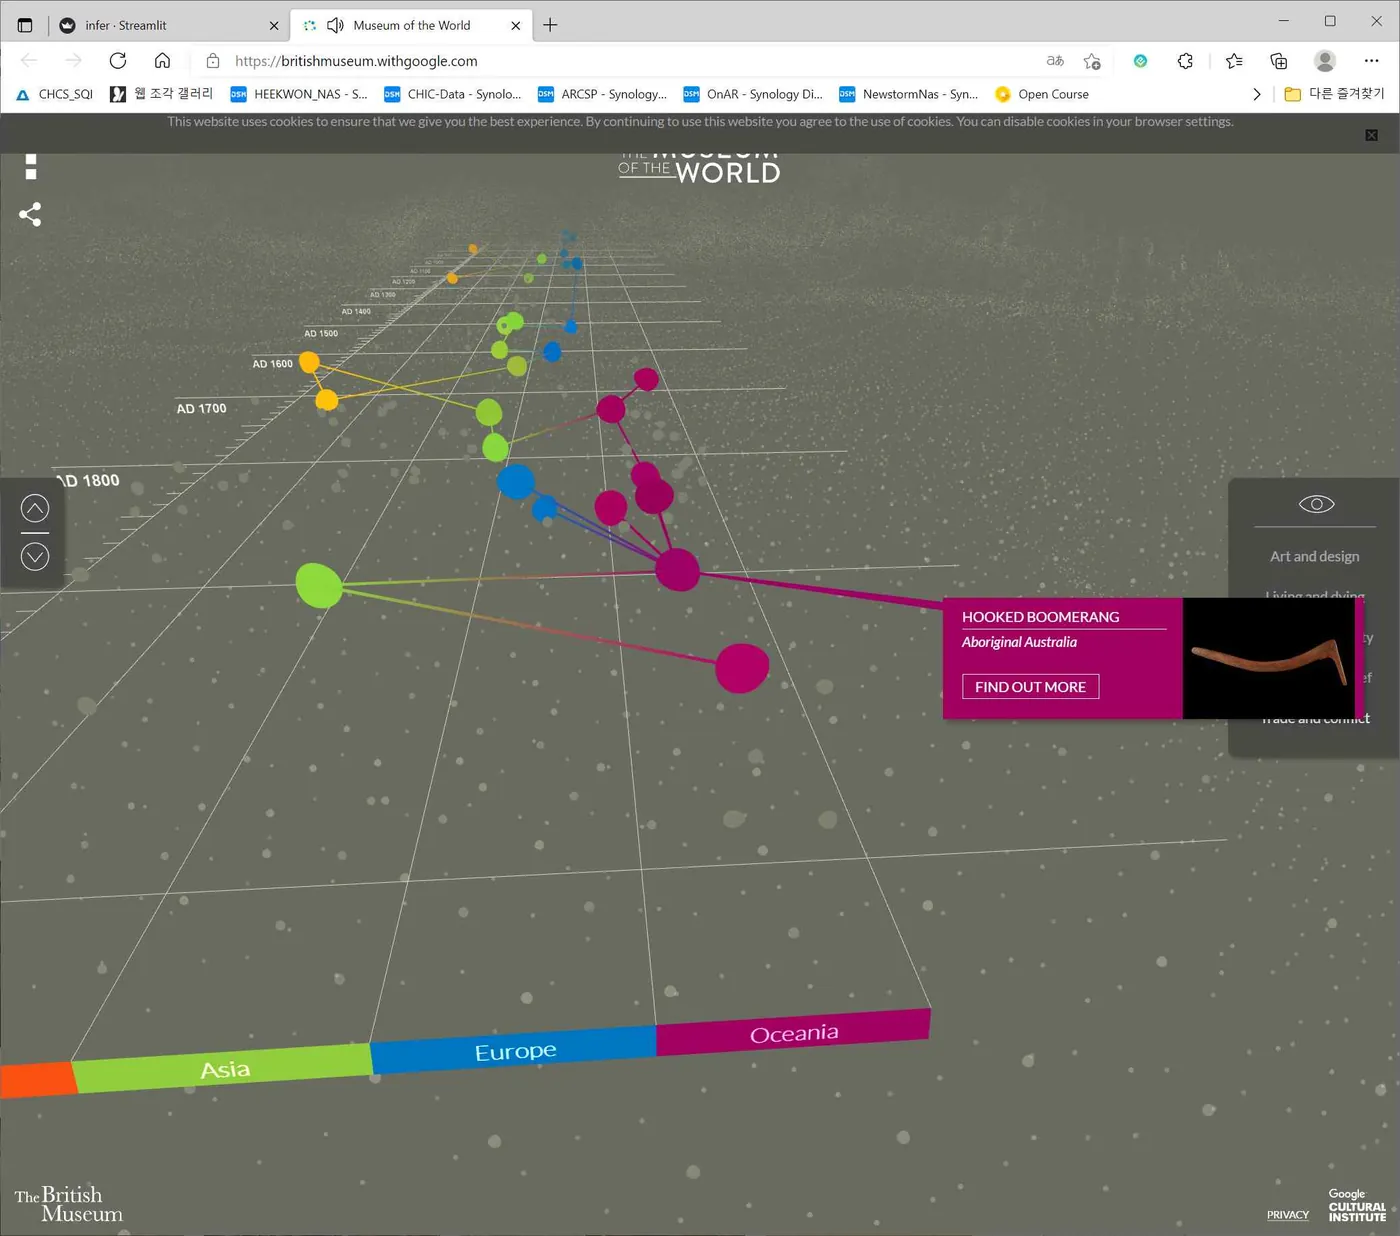
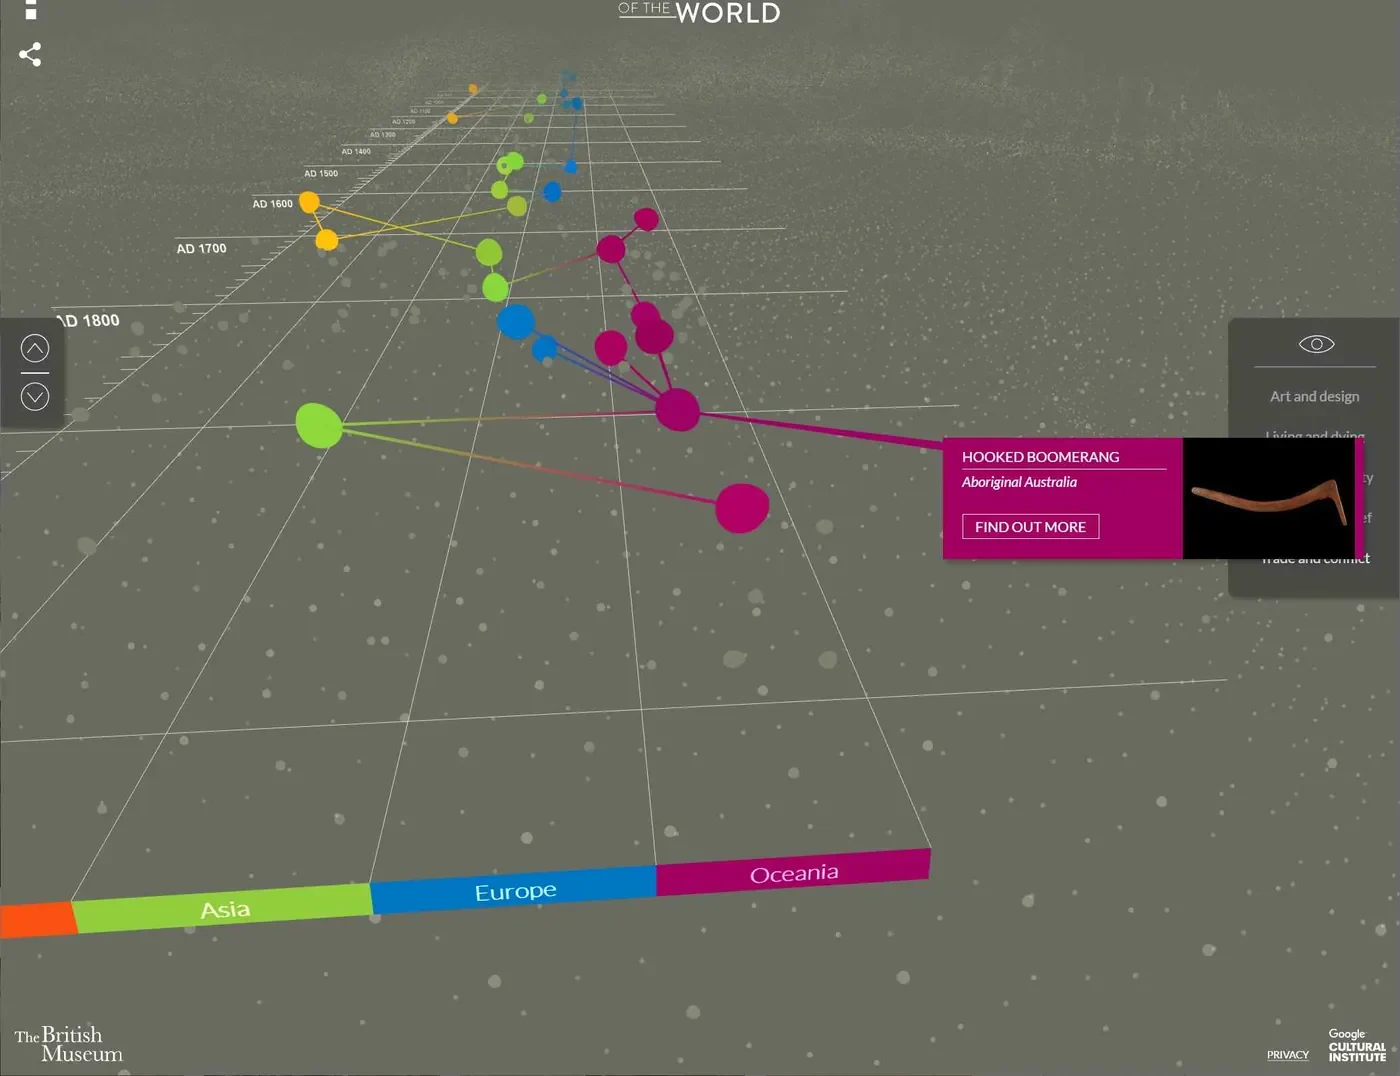
Strip personal data from the published result images
Reviewing all 44 published images turned up browser windows captured
whole, bookmarks bar included.

- knowledge-graph, relation-analysis and web-viewer carried a bookmarks
  bar naming internal hosts (CHCS_SQI, HEEKWON_NAS, CHIC-Data, ARCSP,
  OnAR, NewstormNas) and work systems (e나라도움, 연구비통합관리시스템,
  연구개발정보관리). Cropped above the page content.
- nl-search, web-museum and semantic-search showed a real person's face
  as the account avatar. Replaced with a neutral placeholder; the same
  crop removes the internal S3 endpoint from the address bar.
- annotation-tool exposed a localhost URL and a browser profile chip.
- virtual-exhibition was framed by KMPlayer's title bar and transport
  controls.

Attribution, which is a separate problem: knowledge-graph is the British
Museum's Museum of the World and relation-analysis is UNESCO's Dive into
Intangible Cultural Heritage. Both sat in the results grid as if they were
ours. Rather than drop them, results entries take an optional imageCredit
that renders as a caption under the description, and the two entries name
their source. The label is localised; the credit itself is a proper noun,
so it is shared.

field-capture is left alone — a masked colleague handling equipment reads
as an ordinary fieldwork photo, though consent is worth confirming.

Verified: build passes, 22 pages; the credit renders in both locales; and
the eight edited images were re-inspected edge to edge with nothing left.

diff --git a/src/i18n/ui.ts b/src/i18n/ui.ts
@@ -37,6 +37,7 @@ export const ui = {
     'results.year2': '2차년도',
     'results.count': '건',
     'results.empty': '해당 조건의 결과물이 없습니다.',
+    'results.source': '참고 화면 출처',
     'cat.acquisition': '데이터 획득·품질 개선',
     'cat.asset': '문화유산 애셋 기술',
     'cat.analysis': '지능형 분석·검색',
@@ -93,6 +94,7 @@ export const ui = {
     'results.year2': 'Year 2',
     'results.count': 'items',
     'results.empty': 'No results match the current filter.',
+    'results.source': 'Reference screen, courtesy of',
     'cat.acquisition': 'Acquisition & quality',
     'cat.asset': 'Heritage asset technology',
     'cat.analysis': 'Intelligent analysis & search',

diff --git a/src/content.config.ts b/src/content.config.ts
@@ -108,6 +108,9 @@ const results = defineCollection({
     /** 결과물 이미지는 원본 화질·저작권 미확인 상태다 (PLAN P-04).
      *  없으면 텍스트 전용으로 렌더되므로 이미지 대기가 페이지를 막지 않는다. */
     image: z.string().optional(),
+    /** 이미지가 과제 산출물이 아니라 외부 참고 화면일 때의 출처. 고유명사라 언어 공통이며,
+     *  'Source:' 라벨만 i18n으로 붙는다. 값이 있으면 이미지 아래에 캡션으로 노출된다. */
+    imageCredit: z.string().optional(),
   }),
 });
 
